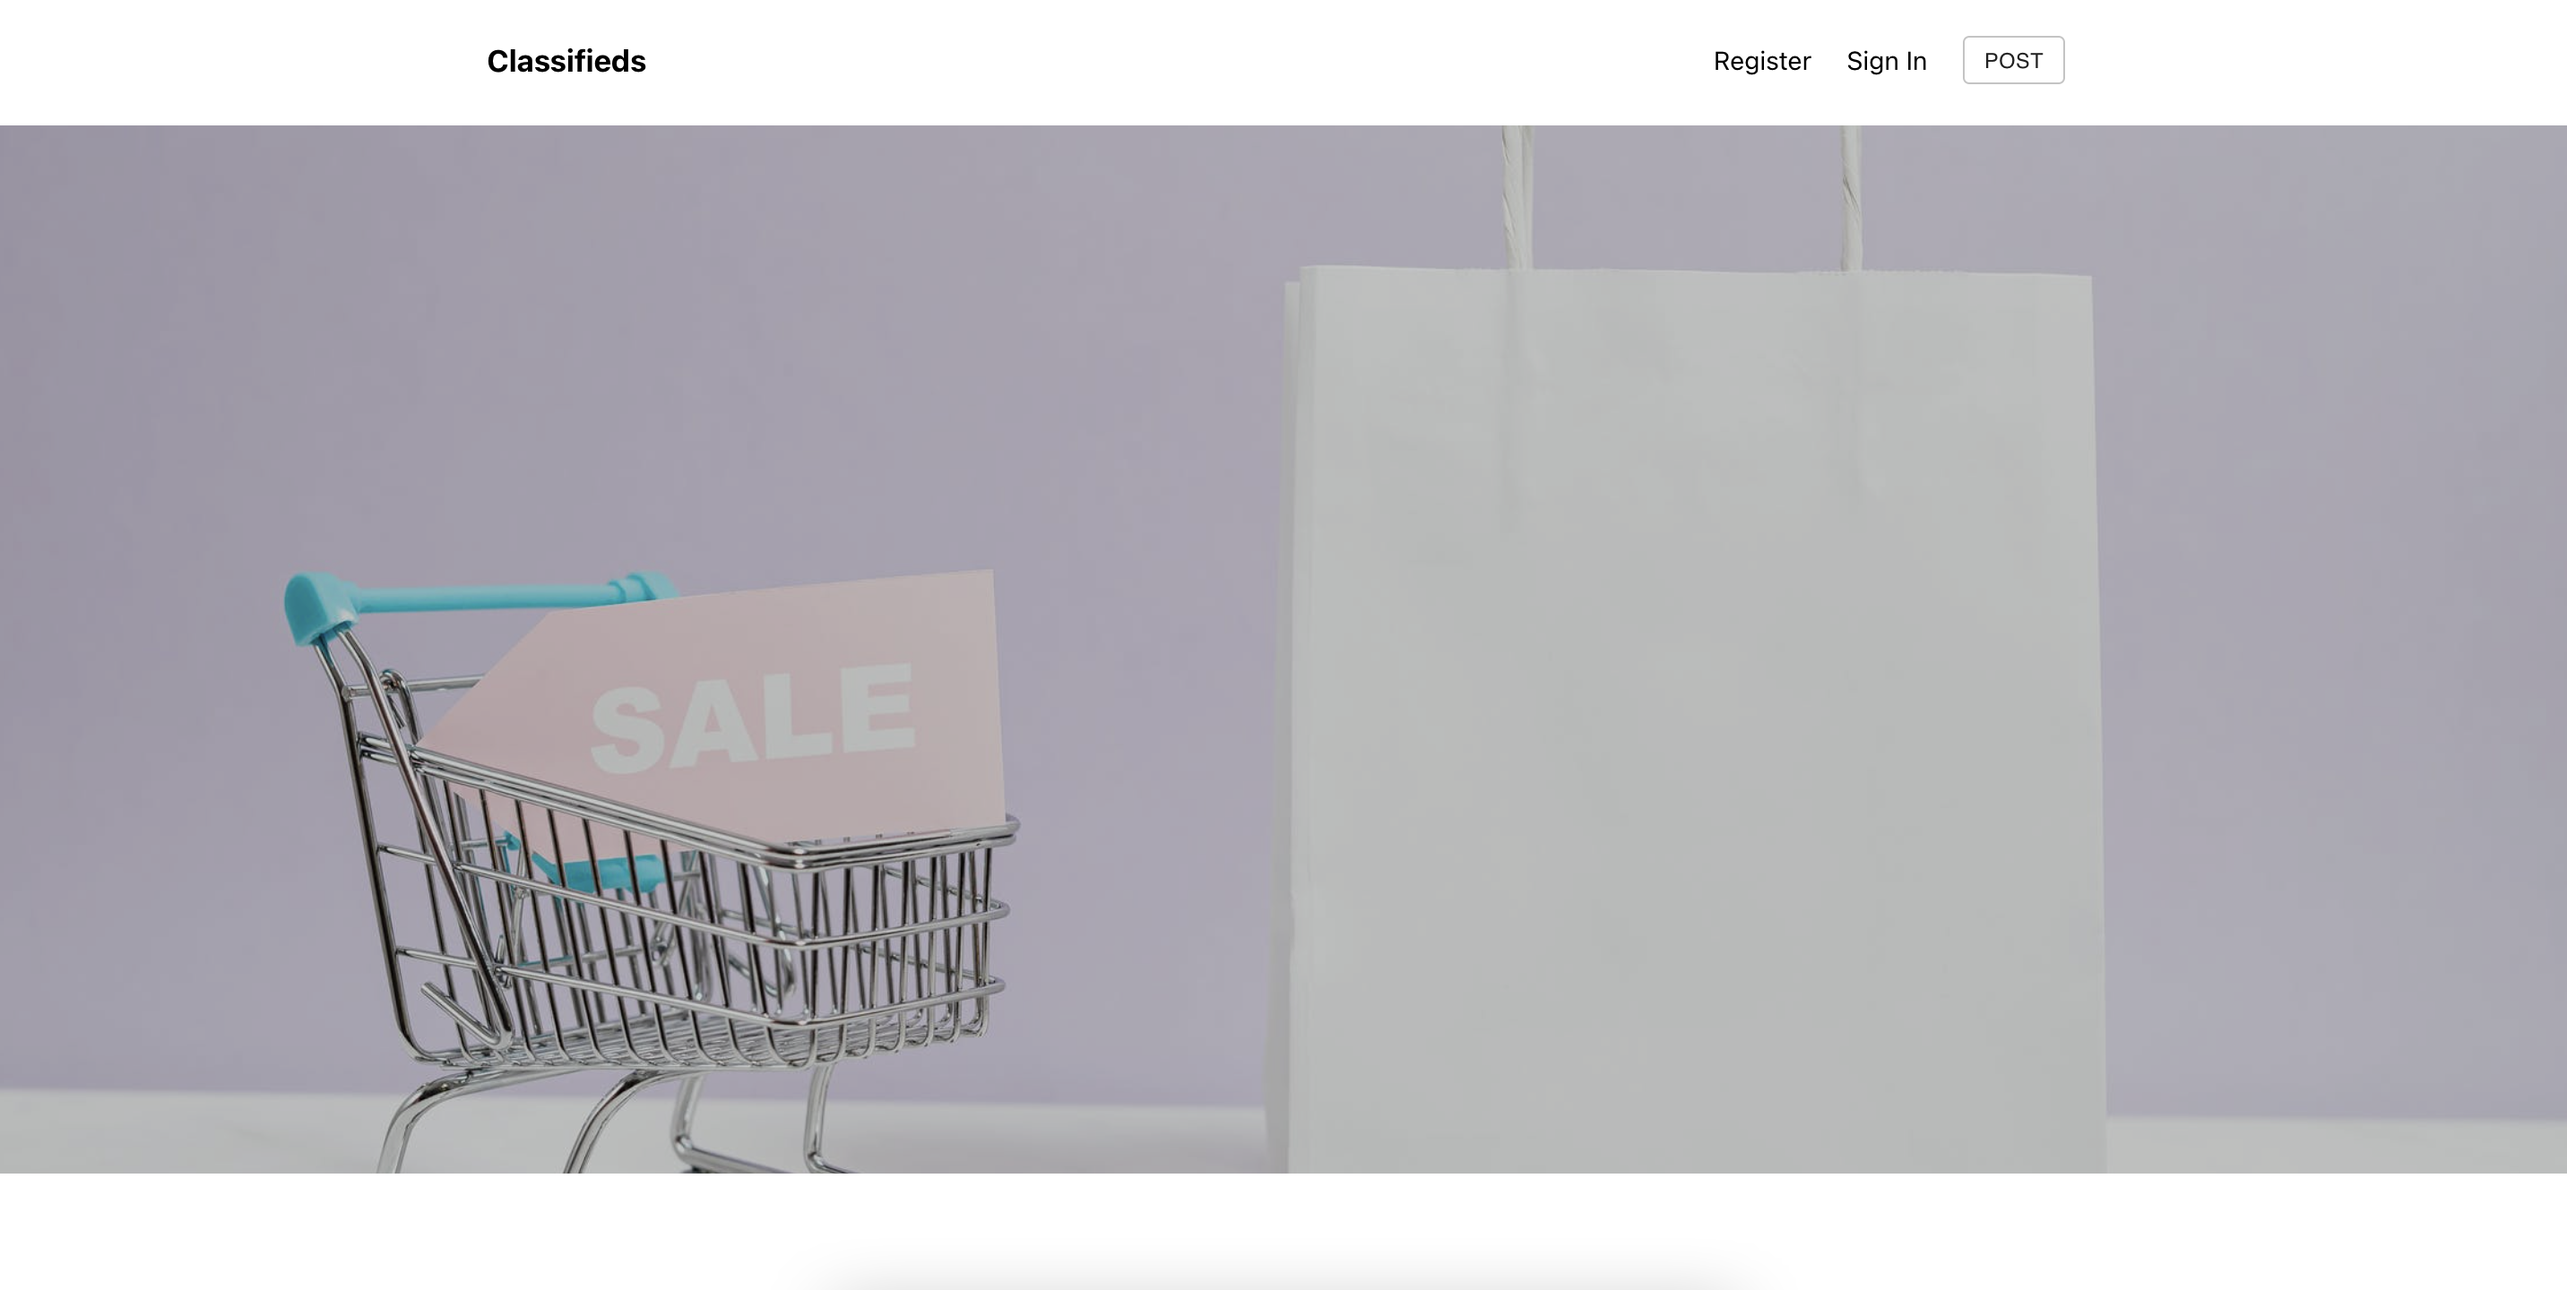
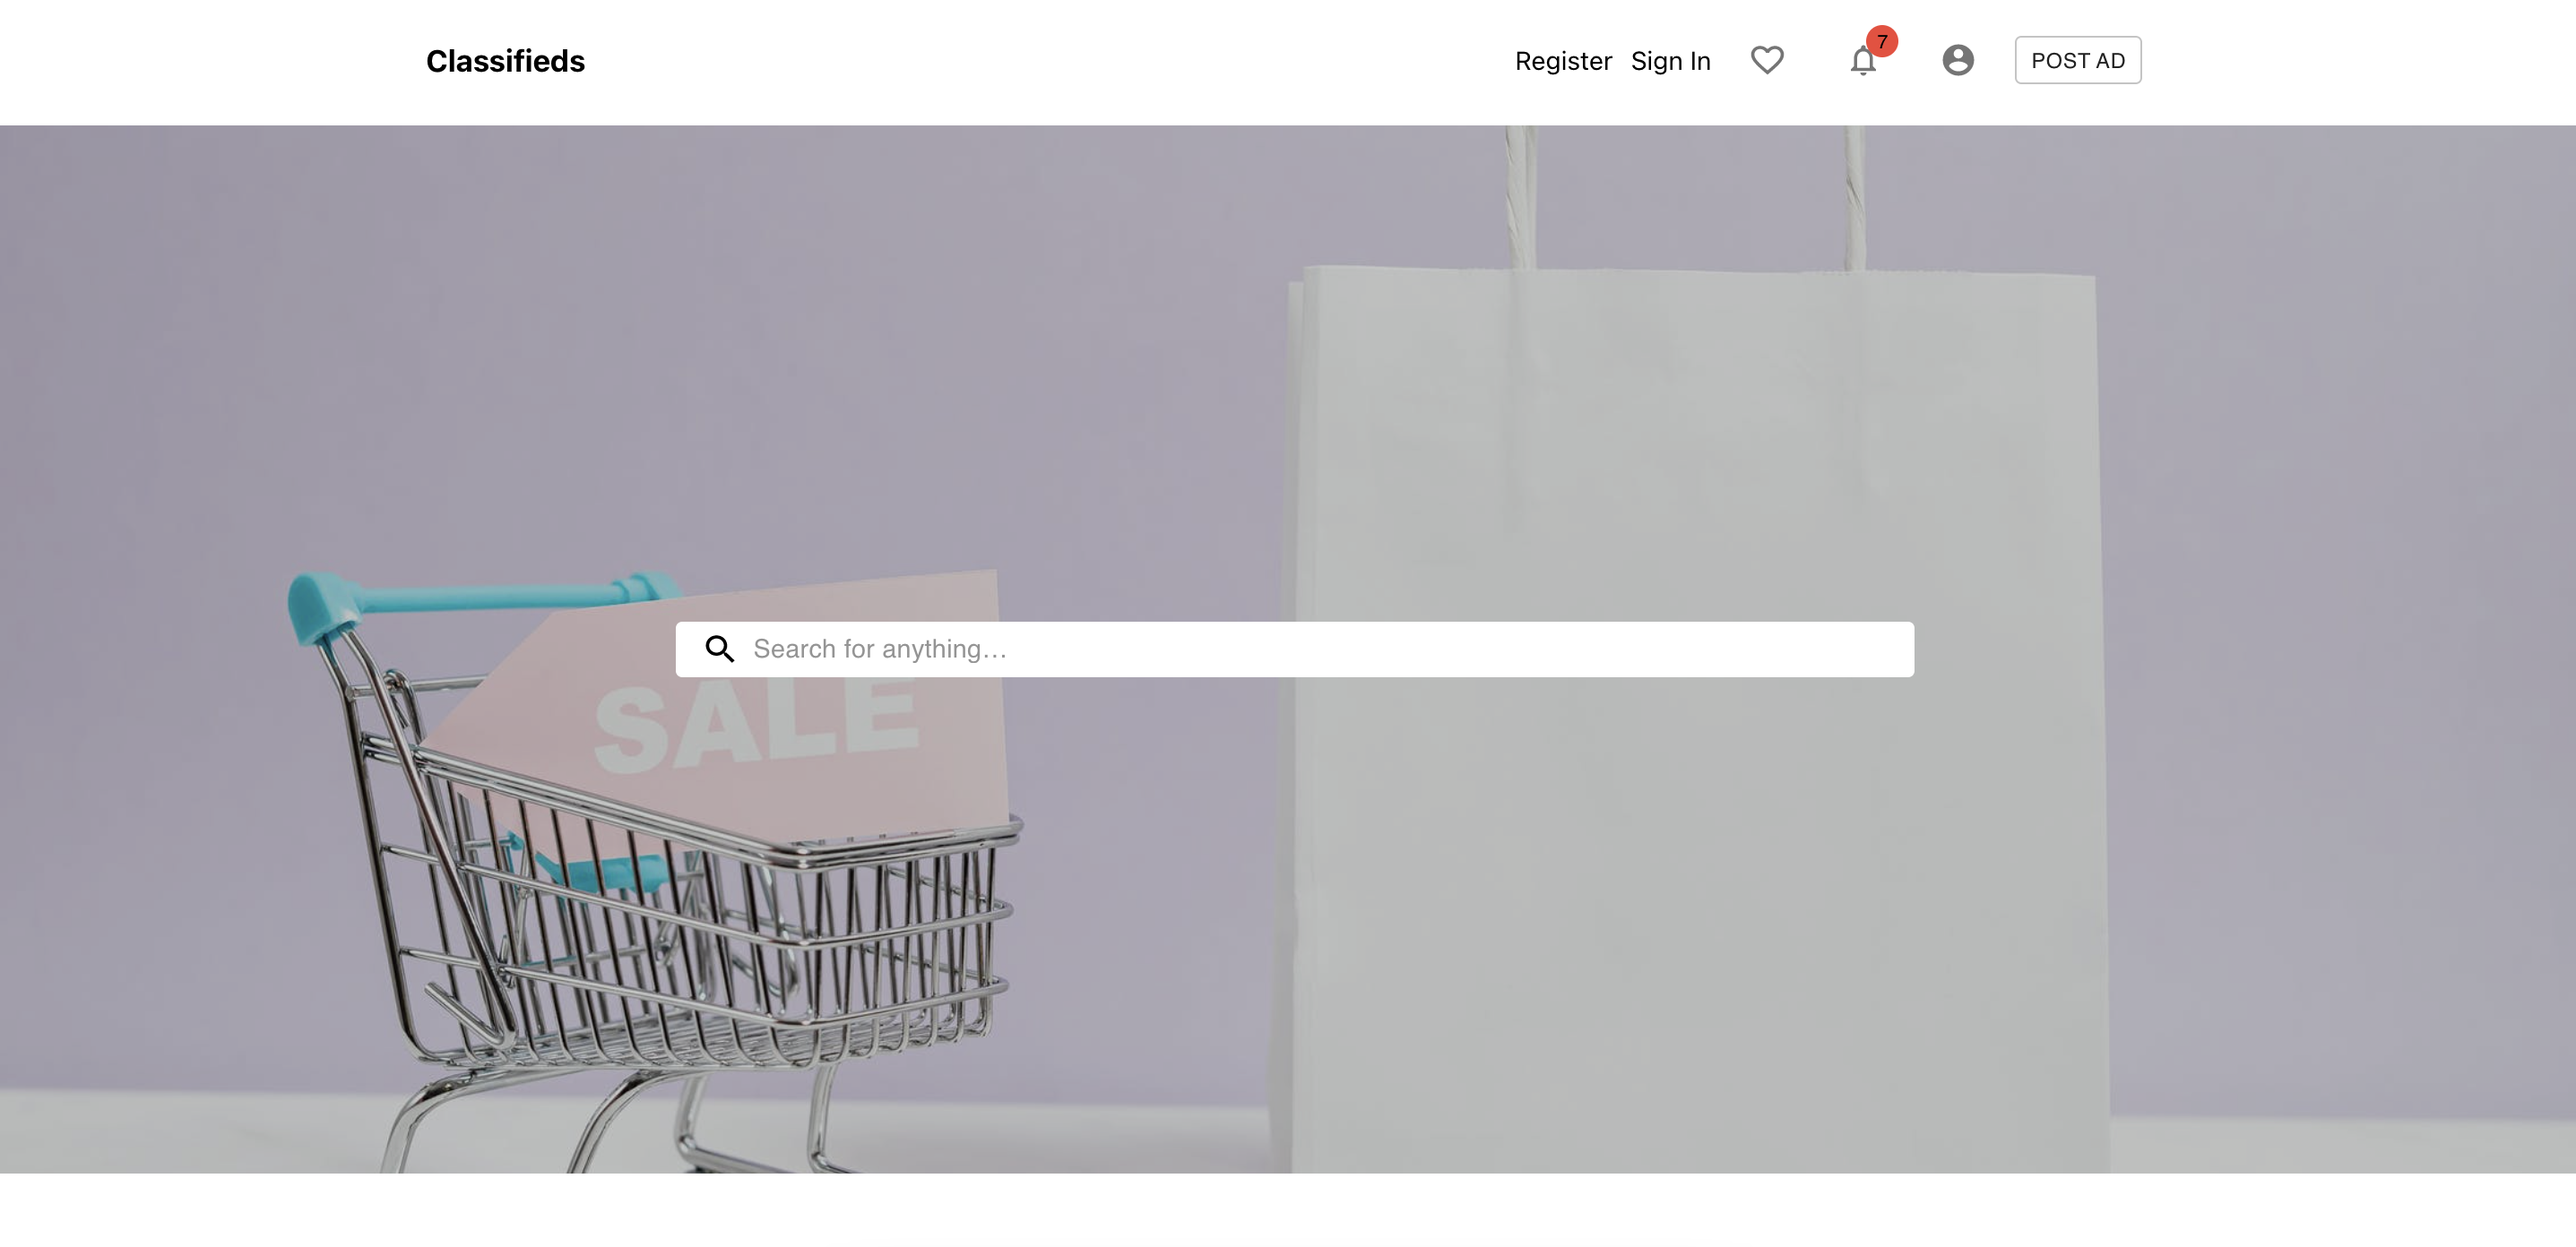
docs/ update readme.md

diff --git a/client/src/components/Searchbar.js b/client/src/components/Searchbar.js
@@ -8,6 +8,7 @@ const useStyles = makeStyles((theme) => ({
   search: {
     position: "relative",
     borderRadius: theme.shape.borderRadius,
+    border: "2",
     backgroundColor: fade(theme.palette.common.white, 0.25),
     "&:hover": {
       backgroundColor: "white",
